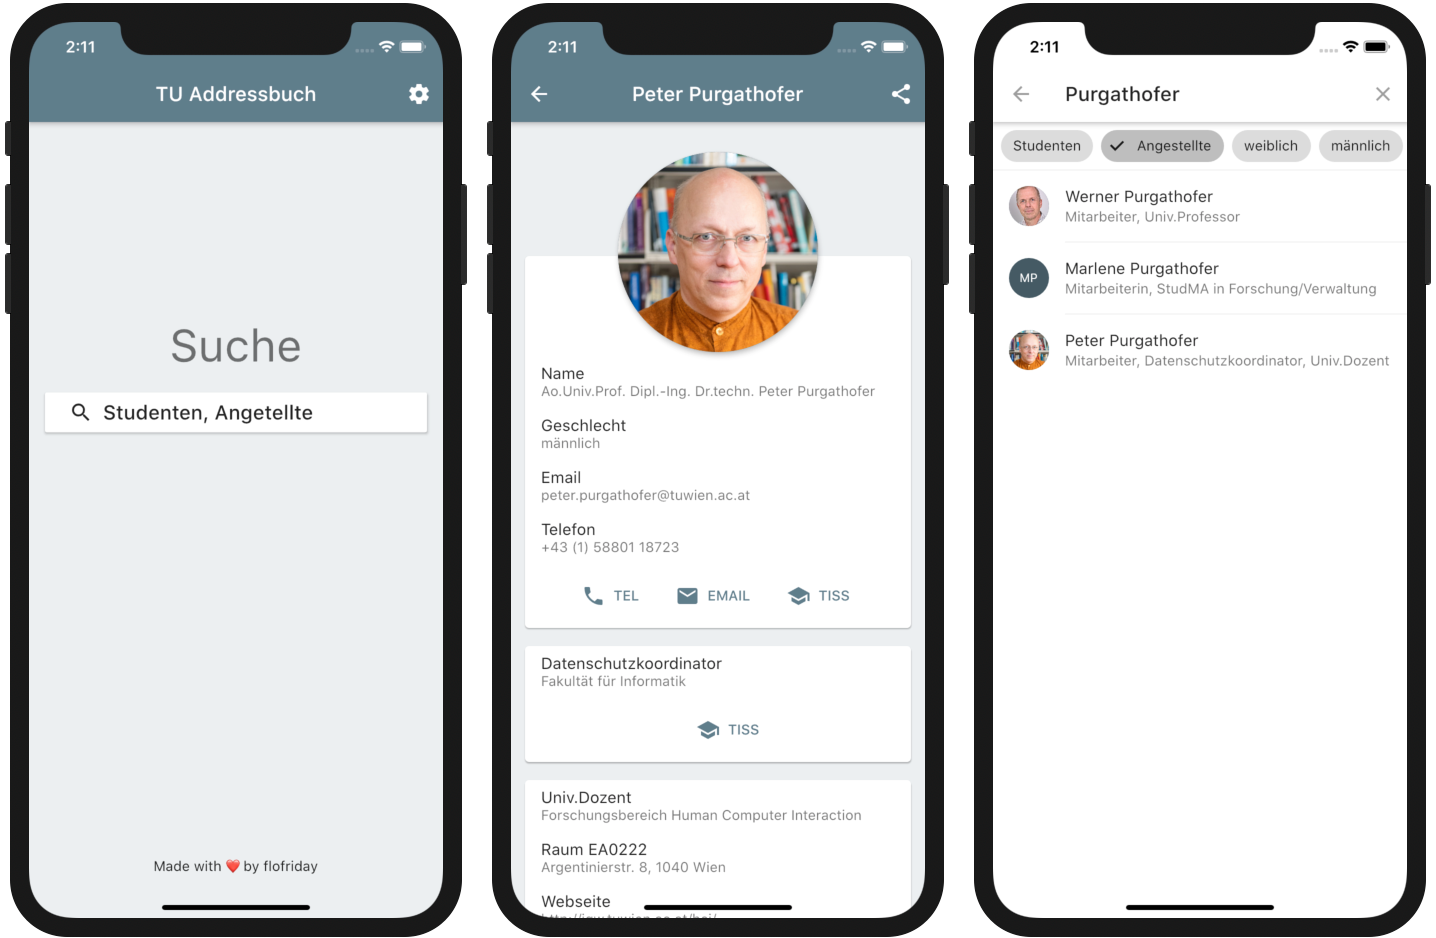
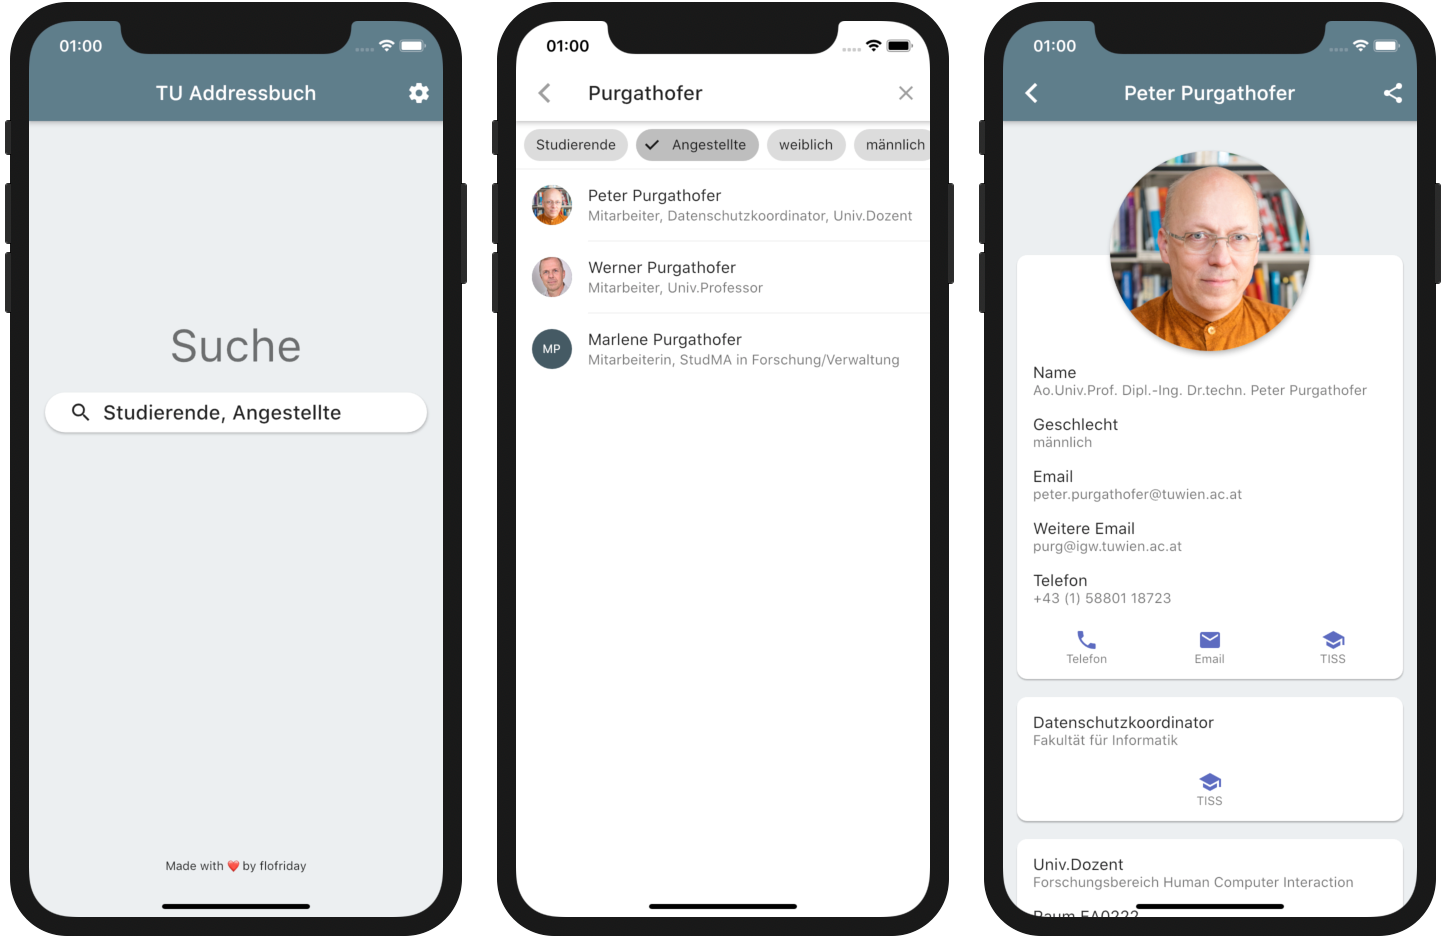
Improve preview image speeds and update to version 1.0.0

diff --git a/lib/widgets/person_card.dart b/lib/widgets/person_card.dart
@@ -2,6 +2,7 @@
 import 'package:flutter/material.dart';
 import 'package:tu_wien_addressbook/models/person.dart';
 import 'package:tu_wien_addressbook/screens/image_screen.dart';
+import 'package:tu_wien_addressbook/widgets/person_avatar.dart';
 import 'package:tu_wien_addressbook/widgets/simple_tile.dart';
 import 'package:tu_wien_addressbook/widgets/utils.dart';
 
@@ -164,7 +165,7 @@ class PersonInfoCard extends StatelessWidget {
               borderRadius: BorderRadius.circular(100),
               elevation: 4,
               child: person.pictureUri == null
-                  ? person.getCircleAvatar(100)
+                  ? PersonAvatar(person, 100)
                   : GestureDetector(
                       child: Hero(
                         tag: 'personimage',
@@ -176,6 +177,15 @@ class PersonInfoCard extends StatelessWidget {
                             height: 200,
                             width: 200,
                             fit: BoxFit.cover,
+                            loadingBuilder: (context, child, loadingProgress) {
+                              if (loadingProgress == null) return child;
+                              return Image.network(
+                                person.getPreviewPictureUrl(),
+                                height: 200,
+                                width: 200,
+                                fit: BoxFit.cover,
+                              );
+                            },
                           ),
                         ),
                         flightShuttleBuilder: (flightContext, animation,

diff --git a/lib/widgets/employee_card.dart b/lib/widgets/employee_card.dart
@@ -81,6 +81,8 @@ class EmployeeCard extends StatelessWidget {
                           Text(
                             "Telefon",
                             style: Theme.of(context).textTheme.caption,
+                            maxLines: 1,
+                            overflow: TextOverflow.ellipsis,
                           ),
                         ],
                       ),
@@ -140,6 +142,8 @@ class EmployeeCard extends StatelessWidget {
                           Text(
                             "Webseite",
                             style: Theme.of(context).textTheme.caption,
+                            maxLines: 1,
+                            overflow: TextOverflow.ellipsis,
                           ),
                         ],
                       ),
@@ -200,6 +204,8 @@ class EmployeeCard extends StatelessWidget {
                           Text(
                             "Karte",
                             style: Theme.of(context).textTheme.caption,
+                            maxLines: 1,
+                            overflow: TextOverflow.ellipsis,
                           ),
                         ],
                       ),
@@ -218,6 +224,8 @@ class EmployeeCard extends StatelessWidget {
                           Text(
                             "TISS",
                             style: Theme.of(context).textTheme.caption,
+                            maxLines: 1,
+                            overflow: TextOverflow.ellipsis,
                           ),
                         ],
                       ),

diff --git a/lib/models/person.dart b/lib/models/person.dart
@@ -27,6 +27,9 @@ class Person {
   @JsonKey(name: 'picture_uri')
   String pictureUri;
 
+  @JsonKey(name: 'preview_picture_uri')
+  String previewPictureUri;
+
   @JsonKey(name: 'main_email')
   String email;
 
@@ -97,6 +100,14 @@ class Person {
     return "https://www.tuwien.at/apple-touch-icon.png";
   }
 
+  String getPreviewPictureUrl() {
+    if (this.pictureUri != null) {
+      return "https://tiss.tuwien.ac.at" + this.previewPictureUri;
+    }
+
+    return "https://www.tuwien.at/apple-touch-icon.png";
+  }
+
   String getShortDescription() {
     String description = "";
 
@@ -127,23 +138,6 @@ class Person {
     if (this.phoneNumber != null) s += "\n\n$phoneNumber";
     s += "\n\n${getTissUrl()}";
     return s;
-  }
-
-  CircleAvatar getCircleAvatar(double radius) {
-    if (this.pictureUri != null) {
-      return CircleAvatar(
-        radius: radius,
-        backgroundImage: NetworkImage(this.getPictureUrl()),
-      );
-    }
-
-    return CircleAvatar(
-      radius: radius,
-      child: Text(
-        this.firstName[0] + this.lastName[0],
-        style: TextStyle(fontSize: radius * 0.6),
-      ),
-    );
   }
 }
 

diff --git a/lib/models/person.g.dart b/lib/models/person.g.dart
@@ -15,6 +15,7 @@ Person _$PersonFromJson(Map<String, dynamic> json) {
     ..postpositionedTitles = json['postpositioned_titles'] as String
     ..tissUri = json['card_uri'] as String
     ..pictureUri = json['picture_uri'] as String
+    ..previewPictureUri = json['preview_picture_uri'] as String
     ..email = json['main_email'] as String
     ..otherEmails =
         (json['other_emails'] as List)?.map((e) => e as String)?.toList()
@@ -38,6 +39,7 @@ Map<String, dynamic> _$PersonToJson(Person instance) => <String, dynamic>{
       'postpositioned_titles': instance.postpositionedTitles,
       'card_uri': instance.tissUri,
       'picture_uri': instance.pictureUri,
+      'preview_picture_uri': instance.previewPictureUri,
       'main_email': instance.email,
       'other_emails': instance.otherEmails,
       'main_phone_number': instance.phoneNumber,

diff --git a/lib/widgets/person_avatar.dart b/lib/widgets/person_avatar.dart
@@ -1,0 +1,27 @@
+import 'package:flutter/material.dart';
+import 'package:tu_wien_addressbook/models/person.dart';
+
+class PersonAvatar extends StatelessWidget {
+  final Person _person;
+  final double _radius;
+
+  PersonAvatar(this._person, this._radius);
+
+  @override
+  Widget build(Object context) {
+    if (_person.pictureUri != null) {
+      return CircleAvatar(
+        radius: _radius,
+        backgroundImage: NetworkImage(_person.getPreviewPictureUrl()),
+      );
+    }
+
+    return CircleAvatar(
+      radius: _radius,
+      child: Text(
+        _person.firstName[0] + _person.lastName[0],
+        style: TextStyle(fontSize: _radius * 0.6),
+      ),
+    );
+  }
+}

diff --git a/lib/widgets/person_entry.dart b/lib/widgets/person_entry.dart
@@ -1,5 +1,6 @@
 import 'package:flutter/material.dart';
 import 'package:tu_wien_addressbook/models/person.dart';
+import 'package:tu_wien_addressbook/widgets/person_avatar.dart';
 
 class PersonEntry extends StatelessWidget {
   final Person person;
@@ -12,7 +13,7 @@ class PersonEntry extends StatelessWidget {
     return ListTile(
       onTap: onTap,
       isThreeLine: false,
-      leading: Hero(tag: person.tissUri, child: person.getCircleAvatar(20)),
+      leading: Hero(tag: person.tissUri, child: PersonAvatar(person, 20)),
       title: Text(
         "${person.firstName} ${person.lastName}",
       ),

diff --git a/lib/screens/person_search.dart b/lib/screens/person_search.dart
@@ -41,10 +41,9 @@ class PersonSearch extends SearchDelegate<Person> {
 
     // Make the request
     var template = new UriTemplate(
-        "https://tiss.tuwien.ac.at/api/person/v22/psuche?q={query}&max_treffer=100&intern=true&locale=de");
+        "https://tiss.tuwien.ac.at/api/person/v22/psuche?q={query}&max_treffer=100&preview_picture_uri=true&intern=true&locale=de");
     String apiUri = template.expand({'query': query});
     http.Response res = await http.get(apiUri, headers: headers);
-    //.timeout(const Duration(seconds: 2));
     return res;
   }
 
